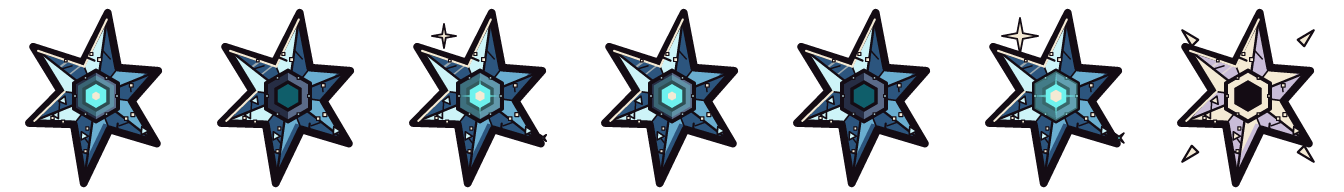
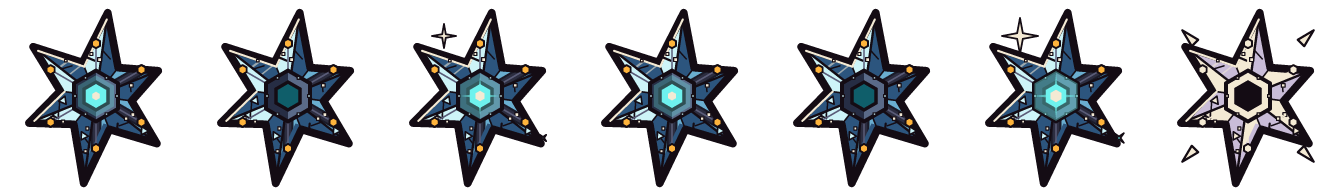
art: reinforce frost rime cutter

diff --git a/Pause/Assets/Art/Enemies/src~/rocks.py b/Pause/Assets/Art/Enemies/src~/rocks.py
@@ -406,8 +406,8 @@ def frost_chunk(i):
 
 
 def frost_rime(i):
-    """A six-point star of rime ice cut in hard facets (each point half lit,
-    half in shadow) around a hex socket with a cyan heart."""
+    """A six-point rime cutter: ice blades held in a riveted steel clamp
+    cage, with a cyan cryo-reactor in the central hex socket."""
     lv, gl = FRAMES[i]
     p = Parts()
     O = star(64, 64, 56, 24, 6, 8, [1, 1, 0.8, 1, 0.92, 1, 1.05, 1, 0.86, 1, 0.95, 1])
@@ -426,6 +426,16 @@ def frost_rime(i):
                    [lerp_pts([O[0]], [(64, 64)], 0.08)[0], lerp_pts([O[11]], [(64, 64)], 0.12)[0]]], 1.4)
     texture(p, cid, O, 61, ICE_HI, ICE_SH, BONE, cracks=3, chips=4, pits=0, flecks=10,
             avoid=((64, 64, 22),), margin=3)
+    # The star is a piece of refinery hardware, not a clean snowflake: six
+    # dark clamp rails bite into the ice near the hub, each with a copper pin.
+    for k in range(6):
+        a = math.radians(k * 60 - 90)
+        x0, y0 = 64 + math.cos(a) * 15, 64 + math.sin(a) * 15
+        x1, y1 = 64 + math.cos(a) * 35, 64 + math.sin(a) * 35
+        p.base += line([(x0, y0), (x1, y1)], 7.2, GUN_SH) + line([(x0, y0), (x1, y1)], 4.4, GUN)
+        p.detail += line([(x0, y0), (x1, y1)], 1.1, GUN_HI)
+        pin = ngon(x1, y1, 3.1, 6, k * 60)
+        p.detail += poly(pin, AMBER) + inkpoly(pin, 1.3)
     ring = ngon(64, 64, 17, 6, 0)
     p.detail += poly(ring, STEEL_SH) + poly([ring[0], ring[1], ring[2], ring[3]], STEEL) + inkpoly(ring, 2.6)
     rivets(p, ngon(64, 64, 14, 6, 30), r=1.3, color=ICE_HI)

diff --git a/docs/art-production-queue.md b/docs/art-production-queue.md
@@ -41,7 +41,7 @@ Every numbered line is a separate commit/merge unit unless it explicitly says
 24. **Installed, validated — `space_rock_cluster`**
 25. **Installed, validated — `space_rock_dark`**
 26. **Installed and validated — `frost_rock_chunk`** — rugged copper-braced frozen industrial chunk with a cyan pressure core; seven-cell strip vetted for safe cell margins and flipbook continuity.
-27. **Queued — `frost_rock_rime`**
+27. **Installed and validated — `frost_rock_rime`** — six-point rime cutter with riveted clamp rails, copper pins, and a pulsing cyan cryo-reactor; seven-cell strip vetted for continuity.
 28. **Installed, validated — `frost_rock_shard`** — rugged Frost ice-shard industrial hazard; 7-frame strip vetted for safe cell margins and roster validation.
 29. **Installed, validated — `verdant_rock_spore`** — rugged grass-capped bio-industrial Spore Rock; floating 7-frame strip preserves its mandated key silhouette and safe cell margins.
 30. **Installed, validated — `verdant_rock_vine`** — rugged floating Verdant terrain wedge with root-cable vines; 7-frame strip vetted for safe cell margins and roster validation.
